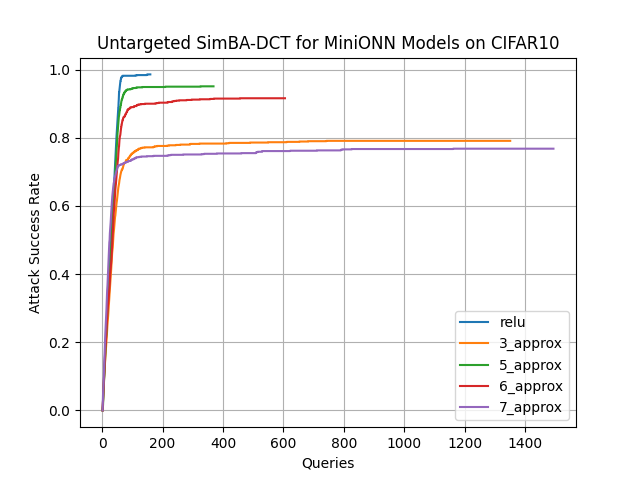
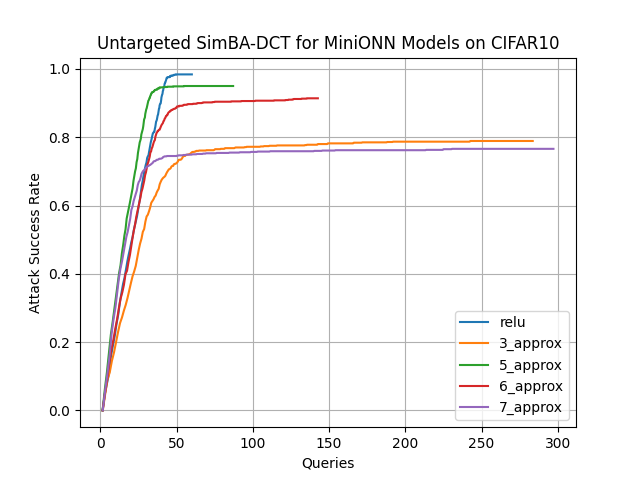
plots

diff --git a/run_simba_cifar.py b/run_simba_cifar.py
@@ -1,3 +1,5 @@
+# Modified from https://github.com/cg563/simple-blackbox-attack
+
 import torch
 import torchvision.datasets as dset
 
@@ -21,7 +23,7 @@ parser.add_argument('--num_iters', type=int, default=0, help='maximum number of 
 parser.add_argument('--log_every', type=int, default=10, help='log every n iterations')
 parser.add_argument('--epsilon', type=float, default=0.2, help='step size per iteration')
 parser.add_argument('--linf_bound', type=float, default=0.0, help='L_inf bound for frequency space attack')
-parser.add_argument('--freq_dims', type=int, default=32, help='dimensionality of 2D frequency space')
+parser.add_argument('--freq_dims', type=int, default=14, help='dimensionality of 2D frequency space')
 parser.add_argument('--order', type=str, default='rand', help='(random) order of coordinate selection')
 parser.add_argument('--stride', type=int, default=7, help='stride for block order')
 parser.add_argument('--targeted', action='store_true', help='perform targeted attack')

diff --git a/load.py b/load.py
@@ -40,10 +40,10 @@ if args.pixel_attack:
     p5 = '64'
 
 for num in nums:
-    print('# of ReLUs:', num)
+    # print('# of ReLUs:', num)
     # res = torch.load('/scratch/gilbreth/chen4384/RobustPNet/save/{}_{}{}_1000_0_{}_0.2000_rand.pth'.format(p2, p1, num, p5))
     print('# :', num)
-    res = torch.load('/scratch/gilbreth/chen4384/RobustPNet/save_cifar/{}_{}{}_1000_0_32_0.2000_rand.pth'.format(p2, p1, num))
+    res = torch.load('/scratch/gilbreth/chen4384/RobustPNet/save_cifar/{}_{}{}_1000_0_14_0.2000_rand.pth'.format(p2, p1, num))
 
     print(res.keys())
     print(res['adv'].shape)

diff --git a/run_simba.py b/run_simba.py
@@ -1,3 +1,5 @@
+# Modified from https://github.com/cg563/simple-blackbox-attack
+
 import torch
 import torch.utils.data as data
 import torchvision.datasets as datasets

diff --git a/simba.py b/simba.py
@@ -1,3 +1,5 @@
+# Modified from https://github.com/cg563/simple-blackbox-attack
+
 import torch
 import torch.nn.functional as F
 import utils

diff --git a/deepreduce_models/resnet_full_relu.py b/deepreduce_models/resnet_full_relu.py
@@ -133,4 +133,3 @@ for module in net.modules():
 
 net(input_tensor)
 print(summ)
-
